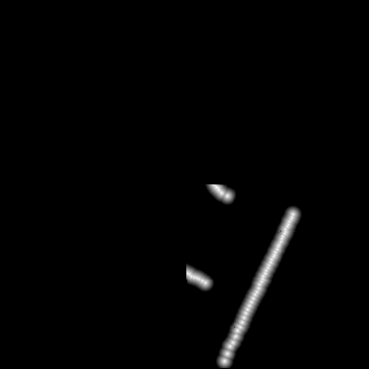
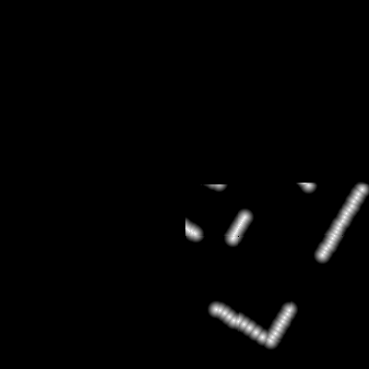
fixed stuff

diff --git a/src/robot/costmap/src/costmap_node.cpp b/src/robot/costmap/src/costmap_node.cpp
@@ -41,8 +41,8 @@ void CostmapNode::laserCallback(const sensor_msgs::msg::LaserScan::SharedPtr sca
 
     if (range >= range_min && range <= range_max)
     {
-      int x = static_cast<int>((range * std::cos(angle)) / resolution) + origin;
-      int y = static_cast<int>((range * std::sin(angle)) / resolution) + origin;
+      int x = static_cast<int>((range * std::sin(angle)) / resolution) + origin;
+      int y = static_cast<int>((range * std::cos(angle)) / resolution) + origin;
 
       // Check bounds
       if (x >= 0 && x < range_size && y >= 0 && y < range_size)
